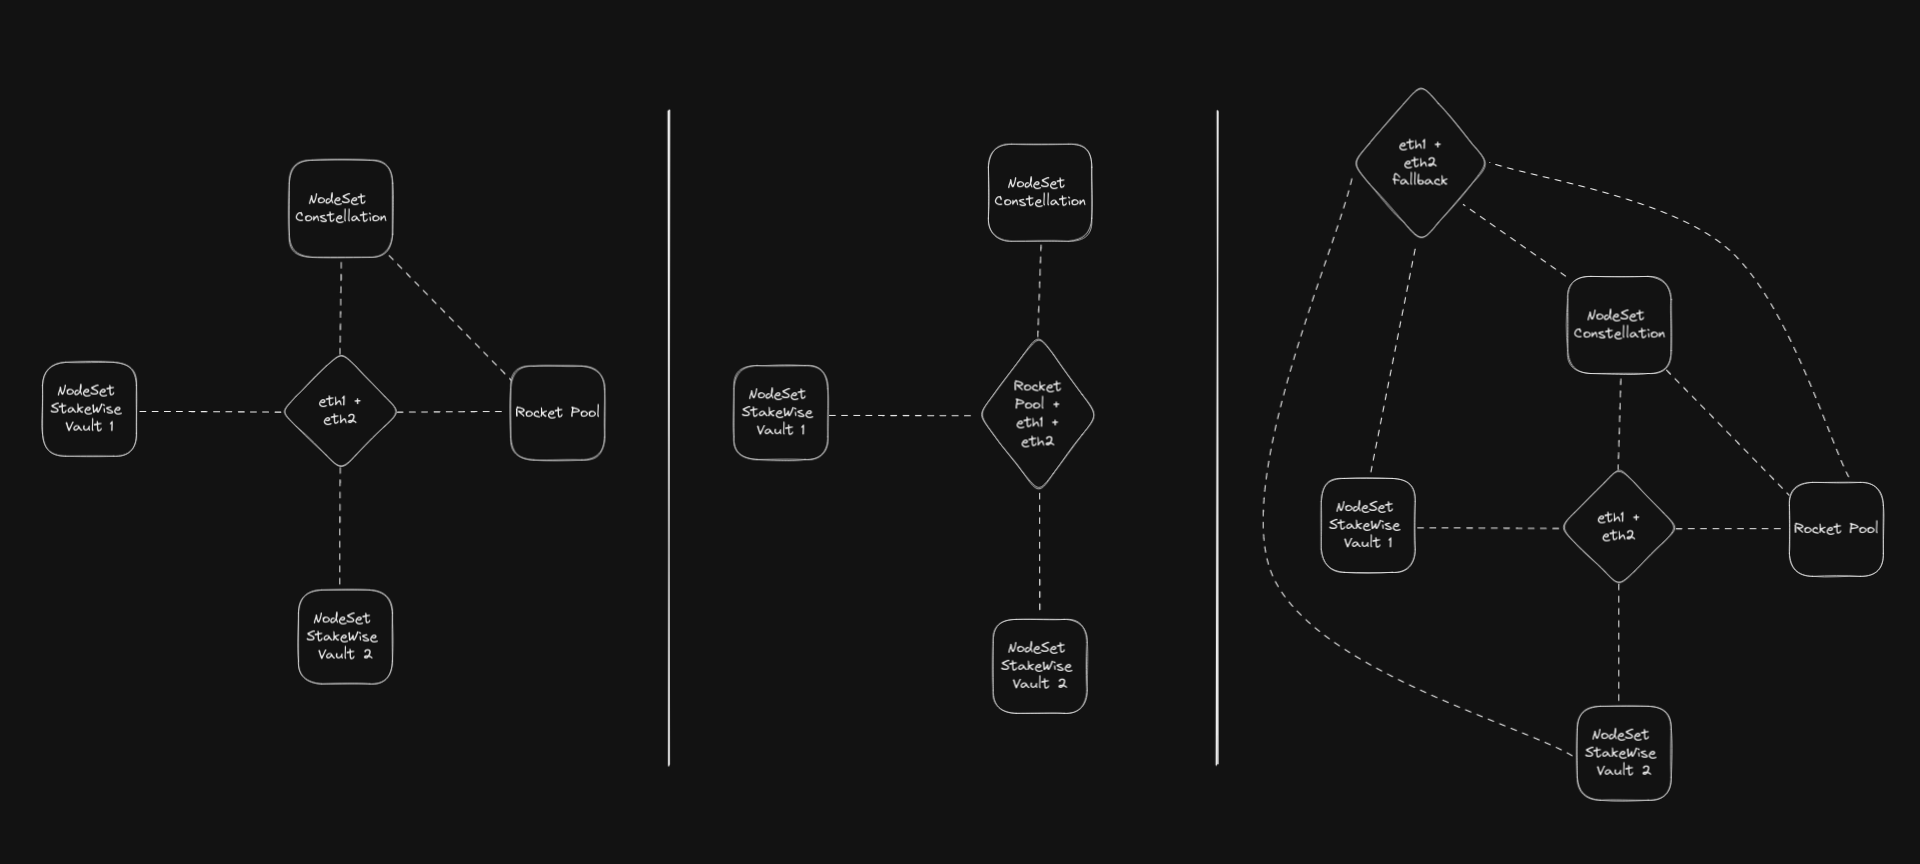
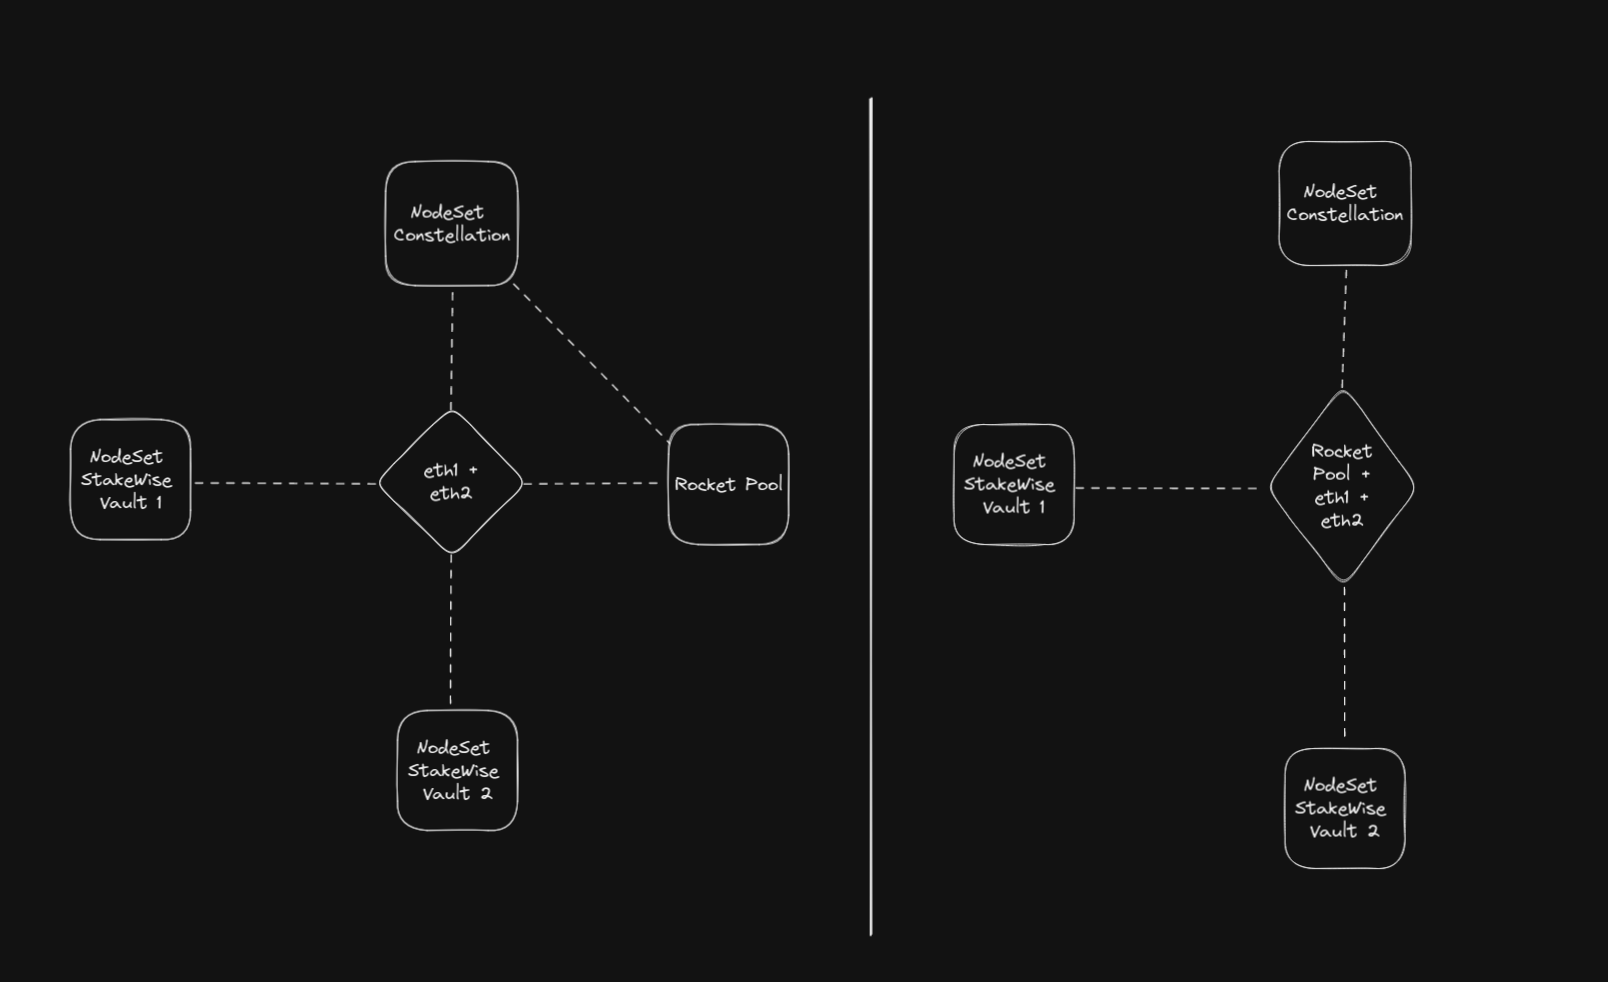
GITBOOK-41: update Constellation section

diff --git a/constellation/introduction.md b/constellation/introduction.md
@@ -1,3 +1,130 @@
-# Introduction
+---
+description: >-
+  Constellation is a protocol built on Rocket Pool which improves its capital
+  efficiency and scalability while reducing asset concentration risk -- all
+  without compromising on the base security model.
+---
 
-\[Under construction. Please check back later!]
+# Overview
+
+**The Problem**
+
+To be maximally trustless, Rocket Pool requires node operators to post a bond for each validator. This restricts growth by requiring a constant supply of NOs who can afford this bond and leads to an uneven distribution of assets across nodes.
+
+
+
+**The Solution**
+
+Constellation liquidizes the NO bond, opening it up to external investors via tokens called xrETH and xRPL. The ETH and RPL deposits used to mint these tokens are used by the Constellation smart contracts to create new minipools on Rocket Pool which are operated non-custodially by NodeSet operators.
+
+<figure><img src="../.gitbook/assets/image.png" alt=""><figcaption><p>Constellation + Rocket Pool Architecture (simplified)</p></figcaption></figure>
+
+There are three main roles for participants in this system:
+
+1\) Depositors (xrETH or xRPL holders)\
+2\) Node operators\
+3\) Administrator
+
+<figure><img src="https://miro.medium.com/v2/resize:fit:700/0*d24eUDlyiDTya8oE" alt="" height="446" width="700"><figcaption><p>Constellation Internal Architecture (simplified)</p></figcaption></figure>
+
+## Current status <a href="#d4ac" id="d4ac"></a>
+
+**Constellation is approaching its release! Stay tuned for audit and testnet information.**
+
+## Depositors <a href="#d4ac" id="d4ac"></a>
+
+Constellation depositors will operate very similarly to their existing role within the base Rocket Pool protocol, except Constellation will also allow RPL deposits alongside ETH. In both of these cases, depositors will exchange their assets for a fully liquid receipt token which accrues gas-optimized rewards using the same c-token model used by rETH. We call these tokens xrETH and xRPL since Constellation extends the capabilities of the core RP protocol.
+
+**xrETH is a liquid Ether staking token with a 0% commission**. It is functionally very similar to rETH, but it offers the extra advantage of returning the full ETH staking APR, just like solo staking.
+
+**xRPL is an RPL liquid staking token**, which grows in value against RPL based on Rocket Pool’s native RPL emissions.
+
+## Node Operators <a href="#id-2259" id="id-2259"></a>
+
+The rewards for xrETH and xRPL comes from the base Rocket Pool protocol, thanks to NOs who opt-in to Constellation. This process is expected to be simple and mostly automated: register with the NodeSet network, download and install an extension to Rocket Pool’s smartnode CLI, run validators, then earn rewards! To ensure depositors receive 100% of ETH staking rewards, NO compensation flows from the rETH commission.
+
+Behind the scenes, NodeSet’s node operator software will create and exit minipools as required using depositors’ ETH with no input needed from the NO. They just need to maintain a Rocket Pool node as usual to get rewarded by Constellation.
+
+However, to fuel the continual creation of new validators in a non-custodial manner, NOs will need to pay initialization gas costs. To understand the full flow, let’s go over the details of minipool creation for Constellation in detail.
+
+**Minipool Creation**
+
+1. NO deploys a node contract and sets the Constellation contract as its withdrawal address.
+2. NO deploys a minipool for that node.
+3. NO makes a request for Constellation to stake assets into their new minipool. This requires an (encrypted) pre-signed exit message for the validator to be sent to and subsequently approved by Constellation’s admin.
+4. If the minipool is validated and approved, the necessary ETH and RPL will be staked by Constellation into that minipool.
+5. This process can be repeated to make as many minipools as allowed by the protocol.
+
+NOs always have an incentive to run as many minipools as allowed by Constellation because they are paid for each minipool they run.
+
+## Administrator <a href="#id-5b03" id="id-5b03"></a>
+
+To achieve our decentralization goals, Constellation must distribute ETH as thinly and evenly as possible across as large a set of NOs who have a low barrier to entry. Generally, if someone has been validating on RP with a high effectiveness rating, they should expect to be able to join and receive rewards with very little effort involved. However, even though NOs can’t access depositor funds, a broadly open NO set requires safeguards to ensure NOs are accountable to depositors. This is where the administrator comes in.
+
+The administrator is responsible for keeping the system stable and is incentivized to do so via a portion of the rETH commission earned by the protocol (minus the NO share). To fulfill its duty, the administrator can adjust parameters like commission rates and Deposit Pool size, and most importantly, they are responsible for growing and maintaining the Node Operator set.
+
+There is technology in development which will likely allow the administrator role to be fully automated via on-chain mechanisms in the future, such as ZK-ID services and CL/EL communication within Ethereum, but for now this role contains some manual steps. We’re still determining the exact incarnation of the administrator, but as developers, we can articulate some minimum details already. At launch, the administrator will take the form of an off-chain entity, and although the smart contracts will necessarily leave the exact procedures for admitting and kicking NOs to the administrator’s discretion, we expect it will look something like this:
+
+**Admittance Procedure**
+
+1. NO registers their intention to participate with the administrator. This includes proof of ownership of an existing RP node via a signed message from its address.
+2. Automatic checks for provided node address are completed, e.g. all minipools on the node must have an appropriate effectiveness level, etc.
+3. NO passes a simple sybil check with the administrator, including a short video interview.
+
+**Kick Conditions**
+
+* Node is offline for too long
+* Any minipool on the node is slashed
+
+In extreme cases of NO negligence, the administrator can eject an operator and recover any funds assigned to their node via the stored exit messages. Realistically, we expect that there will be rare or no use of this power and that its existence is both an effective deterrent against NO mismanagement and an effective incentive for operators to behave honestly.
+
+It’s also important to note that, like NOs, the administrator has no access to depositor funds, and they only get rewarded by the continuous, stable operation of the protocol. In general, the administrator is conceived as a highly limited role with very serious restrictions on its behavior so as to preserve the integrity of the protocol, including delays in parameter changes and operator on/offboarding. It’s crucial that the administrator role is under severe restrictions to minimize trust for this role until it can be fully removed. As it stands, depositors will have minimal trust assumptions for the administrator, and node operators should only need to trust the administrator will effectively perform sybil checks to keep rewards fair.
+
+## FAQ <a href="#id-3bc0" id="id-3bc0"></a>
+
+**Since xrETH has better returns, could it replace rETH?**
+
+We view xrETH as an accelerator and extension to the core Rocket Pool protocol because without sufficient rETH demand, xrETH can’t exist. In fact, due to the improving capital efficiency of RP with low-ETH-bonded minipools, it’s mathematically impossible for xrETH to achieve greater liquidity depth/TVL than rETH.
+
+However, there are several potential solutions we’re considering in case growth of both systems stalls due to higher demand for xrETH than rETH. For example, one of the simplest is capping the xrETH deposit pool to prevent the protocol from growing any further. This is still an active area of research, but we are committed to being good actors in our ecosystem, even if that means placing limitations on Constellation’s growth.
+
+**Will Constellation have a governance token?**
+
+There are no plans for a governance token. Constellation is an extension of Rocket Pool and a prelude to building out a wider NodeSet network of opportunity for NOs — it is not a wholly separate protocol with complex governance needs. Generally, we respect the “ungovernance” principle that projects like [Liquity](https://www.liquity.org/) and [Reflexer](https://reflexer.finance/) model for the same reasons that [Vitalik enunciates well here](https://vitalik.ca/general/2021/08/16/voting3.html). As mentioned above, we hope to eventually fully automate and ossify Constellation, and building up governance in the meantime is counterproductive to this goal.
+
+**Why can’t we just add this to Rocket Pool itself?**
+
+This original concept was studied during Rocket Pool’s development, and back then, it was called nETH. However, the lack of sybil-resistance and other tools to combat NO malfeasance prevented the idea’s viability. Put another way, the available tools were incompatible with full permissionless-ness, so Rocket Pool abandoned the idea.
+
+Constellation, however, as a distinct project built on top of the fully permissionless base protocol, has more flexibility to relax permissioning standards and delegate NO onboarding to an independent administrator to perform the required sybil checks. Thus, the tradeoffs for depositors become more clear: if one believes the administrator and NO’s incentive alignment is sufficient, Constellation will offer higher returns via xrETH, and if one disagrees, then rETH is the appropriate token. Either way, since it’s built on top instead of included with the core protocol, if Constellation malfunctions, Rocket Pool’s sublight engines still work just fine.
+
+**What happens to all the new RPL voting power in Constellation?**
+
+Rocket Pool governance is structured so that NOs will simply have more individual voting power if they are a part of Constellation because they will have more RPL staked. As usual, if NOs wish to delegate their Constellation node’s voting power to another address, they may do so. We encourage NOs to delegate to the administrator so that xrETH and xRPL depositors’ interests are represented, but this is optional.
+
+**How does the xrETH price feed work? Is there an oracle?**
+
+Although we can rely on the base protocol to track xRPL price data, xrETH is more challenging. After [EIP-4788](https://eips.ethereum.org/EIPS/eip-4788) goes live with the Deneb Ethereum upgrade, several potential solutions are available. Until then, however, our only option is to use a crypto-economically secured oracle mechanism, which we’ll detail in a future article.
+
+A historical state proof system is likely to be the ultimate solution, but this represents additional engineering challenges. Tooling is improving quickly, though, and we expect to transition to this model as soon as possible.
+
+This topic is already the subject of wider research, as this is essentially the same problem that the oDAO represents for Rocket Pool. RP’s trusted DAO committee is a potential solution for us as well, though undesirable for many of the same reasons.
+
+**What if the administrator does bad stuff?**
+
+There is a whole category of attacks against Constellation by the administrator which we have termed “Bad Admin” attacks. This includes subcategories like “Evil Admin” attacks and “Incompetent Admin” scenarios, for example. These are all the subject of ongoing security research, but there are several ways to design Constellation to avoid any risk of administrator malfeasance. For example:
+
+* Parameter changes and contract upgrades will have a substantial delay so that depositors or NOs can leave the system before they take effect if they disagree
+* Rate-limits may be applied to the removal of NOs so that the administrator can’t take over the network without depositors leaving first
+
+As part of the development process, we’re conducting several security analyses, and once this is further along, we’ll open this research up to the public for further review and contribution. In addition to standard security audits from top-tier firms, we will rely on community review and participation in our public beta to ensure safety.
+
+**What does the administrator look like? Is it one person/entity?**
+
+At the moment, we can’t say for sure what the administrator will look like for launch, but we know that its ideal form is a smart contract. This won’t be possible initially, so we anticipate a multi-sig will manually perform the admin duties. The exact make-up of this group depends on a number of factors which we’re still researching.
+
+**How much work has been done so far? Wen launch?!**
+
+Most of the important pre-development research and design work has already been completed, and smart contract development began a few months ago. We estimate that we’re about 50% through this process, but there is a significant amount of off-chain development needed as well. Software development is notoriously difficult to predict, and we have the same growing pains that every startup experiences with fundraising, hiring, and in this industry, the necessary complication of audits. All of this impacts the timeline, so we can’t give a very specific estimate at the moment.
+
+All of that said, **we hope to launch Constellation early in 2024!**

diff --git a/constellation/xreth.md b/constellation/xreth.md
@@ -1,0 +1,27 @@
+---
+description: >-
+  xrETH is a liquid Ether staking token which receives the same rewards as solo
+  staking
+---
+
+# xrETH
+
+Functionally, xrETH is very similar to [rETH](https://docs.rocketpool.net/guides/staking/overview#the-reth-token), except it offers the extra advantage of returning the full ETH staking APR. This gives xrETH a similar yield profile to solo staking while remaining liquid.
+
+Also like rETH, xrETH uses the [cToken model made famous by Compound](https://docs.compound.finance/v2/ctokens/) where the protocol's  exchange rate for xrETH will rise over time with the value of earned rewards. This model is more gas efficient than a rebasing token, and it also may offer tax advantages to users in certain jurisdictions.
+
+### Fee Calculations
+
+xrETH is designed to receive the same yield as standard Ethereum staking (including MEV). To achieve this, the ETH exchanged for xrETH is used inside Rocket Pool to create new minipools alongside rETH.
+
+Node operators on Rocket Pool receive the following rewards per ETH bonded:
+
+\`(rETH commission \* ETH staking yield \* 3) + ETH staking yield\`
+
+Constellation reserves an operational fee equal to:
+
+\`rETH commission \* ETH staking yield \* 3\`
+
+For example, if the rETH commission is 14% and the ETH staking yield is 4%, typical RP operators would receive 0.061 ETH/yr per ETH bonded, and xrETH holders would receive 0.04 ETH per/year per ETH deposited.
+
+_Note that it is always more profitable to run a Rocket Pool node with your assets instead of minting xrETH or xRPL. If you are technically capable, please support the network and community by running a Rocket Pool node (and_ [_join NodeSet_](https://nodeset.io/join) _to earn even more)!_

diff --git a/node-operators/best-practices/planning-your-node-architecture.md b/node-operators/best-practices/planning-your-node-architecture.md
@@ -10,7 +10,7 @@ When planning your setup, remember to create fallback and backup plans! If somet
 
 ### External
 
-<figure><img src="../../.gitbook/assets/image (1).png" alt=""><figcaption><p>Three examples of an external node architecture</p></figcaption></figure>
+<figure><img src="../../.gitbook/assets/image (1) (1).png" alt=""><figcaption><p>Three examples of an external node architecture</p></figcaption></figure>
 
 An external node architecture is one where each separate service connects to a single external node, which usually lives on entirely separate hardware within the same network.&#x20;
 

diff --git a/SUMMARY.md b/SUMMARY.md
@@ -23,4 +23,6 @@
 
 ## Constellation
 
-* [Introduction](constellation/introduction.md)
+* [Overview](constellation/introduction.md)
+* [xrETH](constellation/xreth.md)
+* [xRPL](constellation/xrpl.md)

diff --git a/constellation/xrpl.md b/constellation/xrpl.md
@@ -1,0 +1,2 @@
+# xRPL
+
